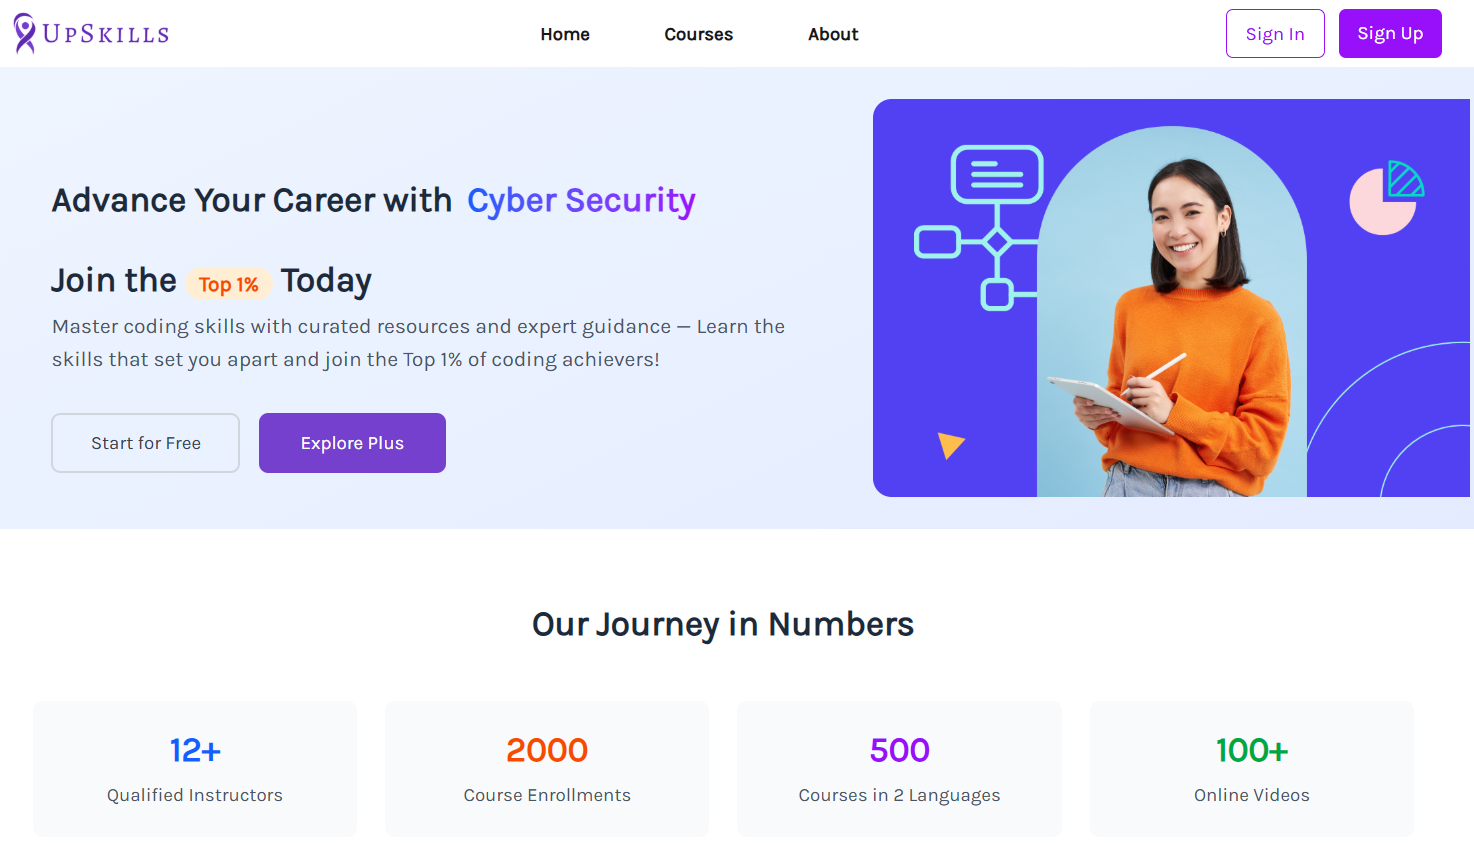
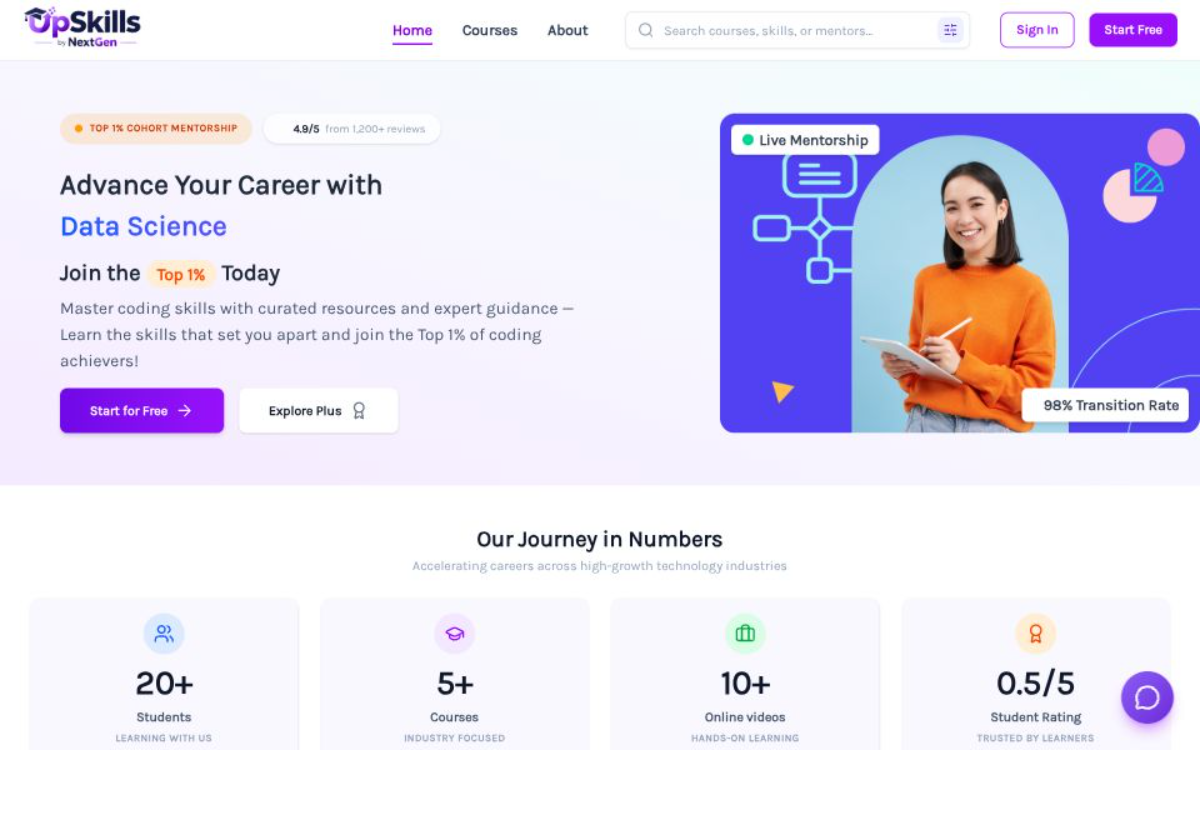
Refactor import statements

diff --git a/src/pages/Home.jsx b/src/pages/Home.jsx
@@ -1,14 +1,14 @@
-import React, { useEffect, useState } from "react";
-import Navbar from "../components/Navbar.jsx";
-import Hero from "../components/Hero.jsx";
-import Skills from "../components/Skills.jsx";
-import WorkProcess from "../components/WorkProcess.jsx";
+import React, { useEffect, useState } from 'react';
+import Navbar from '../components/Navbar.jsx';
+import Hero from '../components/Hero.jsx';
+import Skills from '../components/Skills.jsx';
+import WorkProcess from '../components/WorkProcess.jsx';
 // import WebsiteConfigurator from "../components/WebsiteConfigurator.jsx";
-import Testimonials from "../components/Testimonials.jsx";
-import Projects from "../components/Projects.jsx";
-import Footer from "../components/Footer.jsx";
-import About from "../components/About.jsx";
-import Contact from "../components/Contact.jsx";
+import Testimonials from '../components/Testimonials.jsx';
+import Projects from '../components/Projects.jsx';
+import Footer from '../components/Footer.jsx';
+import About from '../components/About.jsx';
+import Contact from '../components/Contact.jsx';
 
 export default function Home() {
   const [loading, setLoading] = useState(true);
@@ -16,7 +16,7 @@ export default function Home() {
 
   useEffect(() => {
     const interval = setInterval(() => {
-      setProgress((prev) => {
+      setProgress(prev => {
         if (prev >= 100) {
           clearInterval(interval);
           setLoading(false);
@@ -33,13 +33,8 @@ export default function Home() {
   if (loading) {
     return (
       <div className="fixed inset-0 z-[99999] flex flex-col items-center justify-center bg-white">
-
         {/* Logo */}
-        <img
-          src="/file.png"
-          alt="Logo"
-          className="mb-6 w-40 object-contain"
-        />
+        <img src="/file.png" alt="Logo" className="mb-6 w-40 object-contain" />
 
         {/* Loading Bar */}
         <div className="h-[4px] w-48 overflow-hidden rounded-full bg-gray-200">
@@ -49,10 +44,7 @@ export default function Home() {
           />
         </div>
         {/* Percentage */}
-        <div className="mb-3 text-xl font-bold text-black">
-          {progress}%
-        </div>
-
+        <div className="mb-3 text-xl font-bold text-black">{progress}%</div>
       </div>
     );
   }
